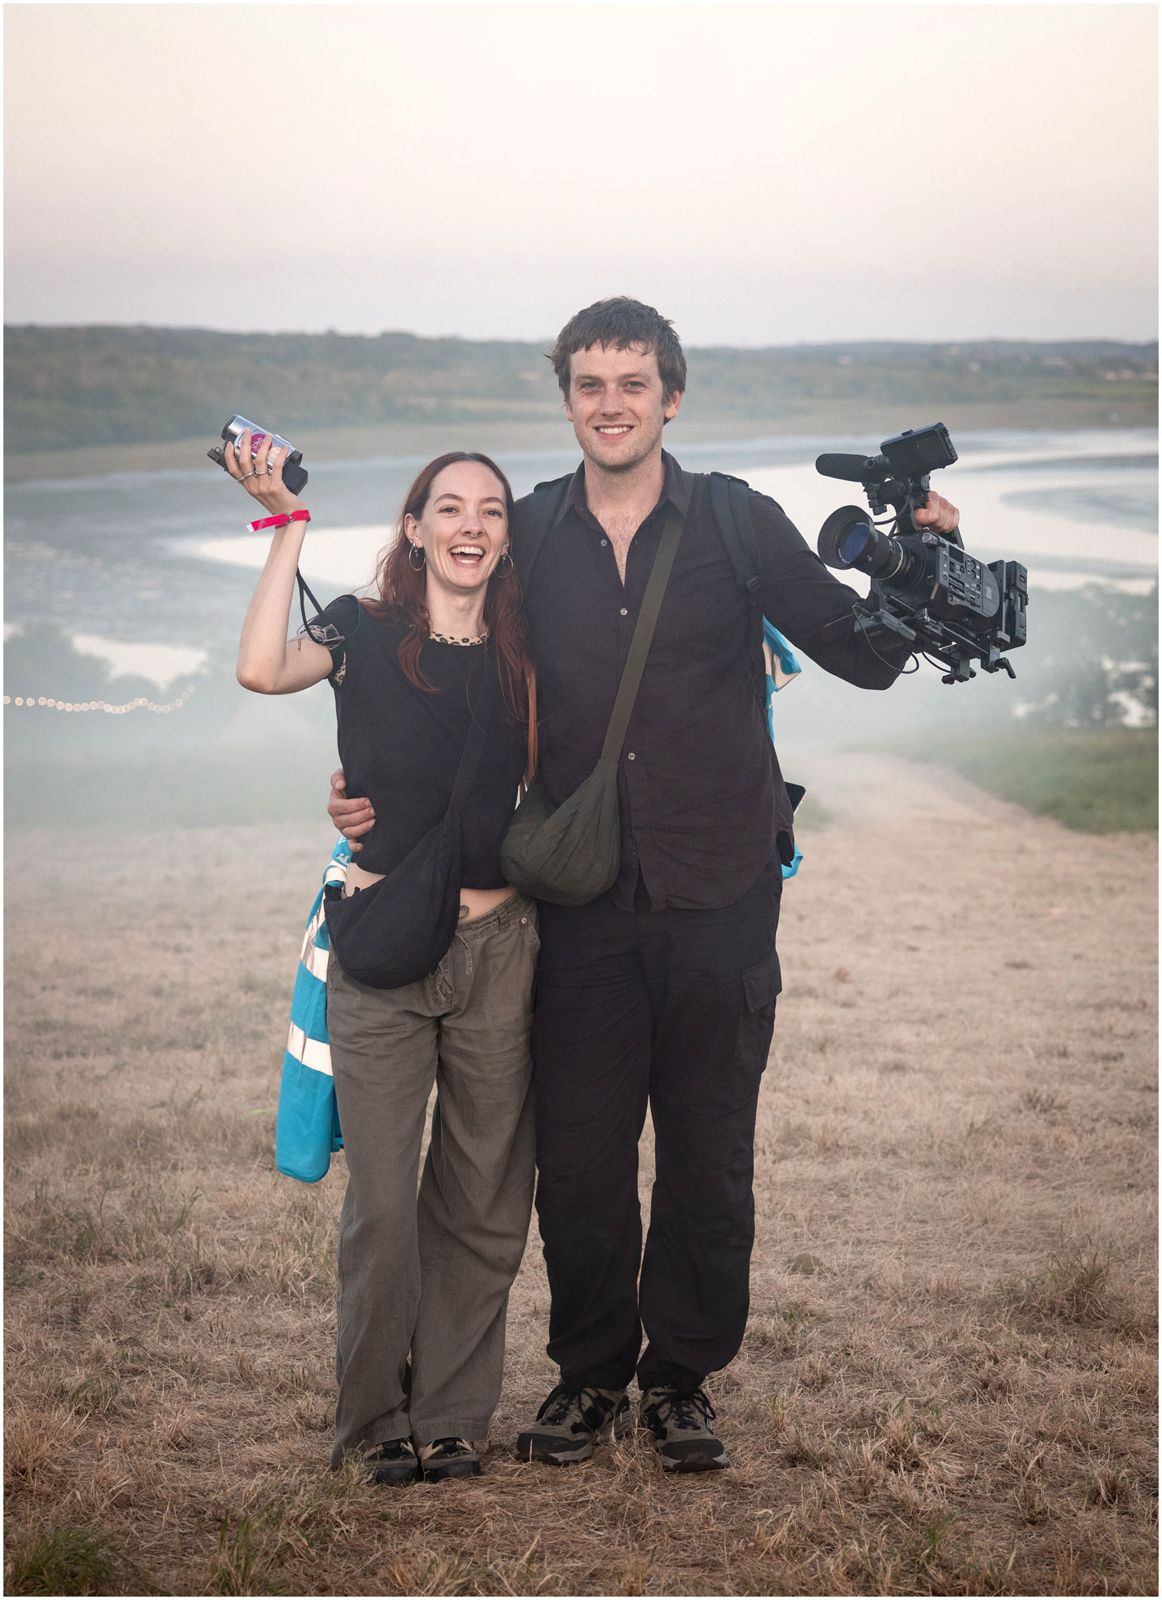
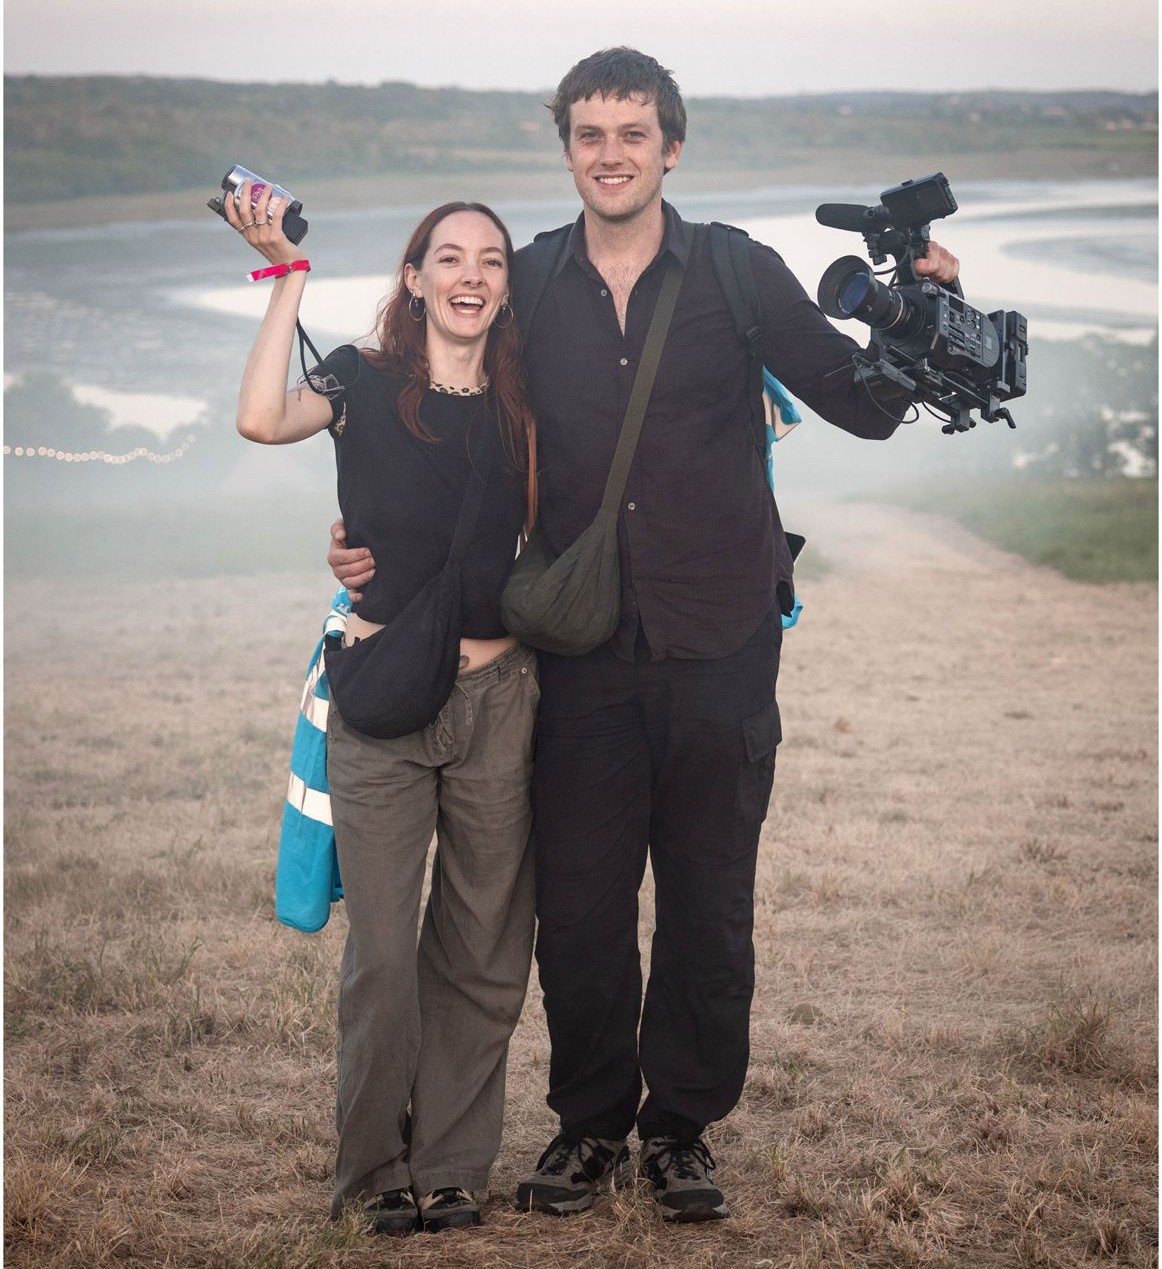
Update Idris Films videos and thumbnails

diff --git a/idrisfilms_site/static/idrisfilms_site/css/partials/outputs.css b/idrisfilms_site/static/idrisfilms_site/css/partials/outputs.css
@@ -33,6 +33,7 @@
   box-shadow: none;
 }
 
+/* Thumbnail area */
 .media-tile{
   position: relative;
   min-height: 170px;
@@ -40,47 +41,72 @@
   place-items: center;
   overflow: hidden;
   border-radius: 0;
-  background: var(--green);
+  background: #000000;
 }
 
-.media-tile--wide{
-  background: var(--blue);
+.media-tile img{
+  position: absolute;
+  inset: 0;
+  width: 100%;
+  height: 100%;
+  display: block;
+  object-fit: cover;
+  object-position: center;
+  transition: transform 180ms ease;
 }
 
-.media-tile--phone{
-  background: var(--rust);
+.output-card:hover .media-tile img{
+  transform: scale(1.035);
 }
 
-.media-tile--cinema{
-  background: #0f1117;
-}
-
+/* Dark overlay */
 .media-tile::before{
   content: "";
   position: absolute;
-  inset: 18px;
-  border: 2px solid #ffffff;
-  opacity: .8;
+  inset: 0;
+  z-index: 1;
+  border: 0;
+  background: rgba(0,0,0,.2);
+  opacity: 1;
+  pointer-events: none;
 }
 
-.media-tile--phone::before{
+/* Inner frame */
+.media-tile::after{
+  content: "";
+  position: absolute;
+  inset: 18px;
+  z-index: 2;
+  border: 2px solid rgba(255,255,255,.85);
+  opacity: 1;
+  pointer-events: none;
+}
+
+/* Vertical/social thumbnail */
+.media-tile--phone img{
+  object-fit: contain;
+  background: #000000;
+}
+
+.media-tile--phone::after{
   left: 35%;
   right: 35%;
-  border-radius: 14px;
+  border-radius: 0;
 }
 
 .play{
   position: relative;
-  z-index: 1;
+  z-index: 3;
   display: grid;
   place-items: center;
   width: 72px;
   height: 72px;
-  border: 3px solid #ffffff;
+  border: 3px solid rgba(255,255,255,.92);
   border-radius: 50%;
   color: #ffffff;
   font-size: 30px;
   padding-left: 4px;
+  background: rgba(0,0,0,.22);
 }
 
 .output-card__body{
@@ -94,6 +120,7 @@
   position: absolute;
   top: -29px;
   left: 16px;
+  z-index: 4;
   display: grid;
   place-items: center;
   width: 52px;
@@ -151,5 +178,11 @@
 
   .media-tile{
     min-height: 150px;
+  }
+
+  .play{
+    width: 62px;
+    height: 62px;
+    font-size: 26px;
   }
 }

diff --git a/idrisfilms_site/templates/idrisfilms_site/partials/outputs.html b/idrisfilms_site/templates/idrisfilms_site/partials/outputs.html
@@ -20,9 +20,14 @@
         type="button"
         data-modal-open
         data-video-title="Website films"
-        data-video-url="https://www.youtube.com/embed/OZNnIKc1VR8"
+        data-video-url="https://www.youtube.com/embed/0Nrc2LELa_s"
       >
         <div class="media-tile media-tile--wide">
+          <img
+            src="{{ STATIC_PREFIX }}idrisfilms_site/img/tufidyfi.jpg"
+            alt=""
+            aria-hidden="true"
+          >
           <span class="play">▶</span>
         </div>
 
@@ -42,9 +47,14 @@
         type="button"
         data-modal-open
         data-video-title="Social media content"
-        data-video-url="https://www.youtube.com/embed/pNNfuHeDCdQ"
+        data-video-url="https://www.youtube.com/embed/h0OMyafxB1Y"
       >
         <div class="media-tile media-tile--phone">
+          <img
+            src="{{ STATIC_PREFIX }}idrisfilms_site/img/bigretreat.jpg"
+            alt=""
+            aria-hidden="true"
+          >
           <span class="play">▶</span>
         </div>
 
@@ -64,9 +74,14 @@
         type="button"
         data-modal-open
         data-video-title="Cinema adverts"
-        data-video-url="https://www.youtube.com/embed/g4LV-LVr6zs"
+        data-video-url="https://www.youtube.com/embed/Z23r_i-4UKM"
       >
         <div class="media-tile media-tile--cinema">
+          <img
+            src="{{ STATIC_PREFIX }}idrisfilms_site/img/makadhim.jpg"
+            alt=""
+            aria-hidden="true"
+          >
           <span class="play">▶</span>
         </div>
 

diff --git a/idrisfilms_site/static/idrisfilms_site/js/main.js b/idrisfilms_site/static/idrisfilms_site/js/main.js
@@ -131,7 +131,7 @@
     const enableYouTubeJsApi = (iframe) => {
       try {
         const src = iframe.getAttribute("src");
-        if (!src || !src.includes("youtube.com/embed/")) return;
+        if (!src || (!src.includes("youtube.com/embed/") && !src.includes("youtube-nocookie.com/embed/"))) return;
 
         const url = new URL(src, window.location.origin);
 
@@ -148,7 +148,7 @@
       const src = iframe.getAttribute("src") || "";
 
       try {
-        if (src.includes("youtube.com/embed/")) {
+        if (src.includes("youtube.com/embed/") || src.includes("youtube-nocookie.com/embed/")) {
           iframe.contentWindow?.postMessage(
             JSON.stringify({
               event: "command",
@@ -237,7 +237,6 @@
 
     // ------------------------------------------------------------
     // Video modal
-    // Safe to keep even if most videos are now embedded directly.
     // ------------------------------------------------------------
     const modal = document.querySelector("[data-video-modal]");
     const modalIframe = document.querySelector("[data-modal-iframe]");
@@ -252,10 +251,12 @@
         try {
           const url = new URL(videoUrl, window.location.origin);
 
-          if (url.hostname.includes("youtube.com")) {
+          if (url.hostname.includes("youtube.com") || url.hostname.includes("youtube-nocookie.com")) {
             url.searchParams.set("autoplay", "1");
-            url.searchParams.set("enablejsapi", "1");
             url.searchParams.set("rel", "0");
+            url.searchParams.set("modestbranding", "1");
+            url.searchParams.set("playsinline", "1");
+            url.searchParams.set("enablejsapi", "1");
           }
 
           if (url.hostname.includes("vimeo.com")) {
@@ -265,8 +266,8 @@
           return url.toString();
         } catch (err) {
           return videoUrl.includes("?")
-            ? `${videoUrl}&autoplay=1`
-            : `${videoUrl}?autoplay=1`;
+            ? `${videoUrl}&autoplay=1&rel=0&modestbranding=1&playsinline=1&enablejsapi=1`
+            : `${videoUrl}?autoplay=1&rel=0&modestbranding=1&playsinline=1&enablejsapi=1`;
         }
       };
 

diff --git a/idrisfilms_site/templates/idrisfilms_site/partials/testimonials.html b/idrisfilms_site/templates/idrisfilms_site/partials/testimonials.html
@@ -8,23 +8,23 @@
       <div class="testimonial-track" data-testimonial-track>
         <article class="testimonial-slide" data-testimonial-slide>
           <blockquote>
-            “Idris Films captured the heart of our project perfectly. The films were beautiful, useful and easy to share.”
+            The whole process was straightforward and enjoyable, and the final film has had a much longer lifespan than we ever expected. You were able to capture both the science and the people behind the project, which was really important to us. I'd happily recommend Idris Films to any organisation looking to tell their story in a genuine and engaging way.”
           </blockquote>
-          <p class="testimonial-name">Project lead, charity</p>
+          <p class="testimonial-name">Rhianna Parry - The Wild Oysters Project</p>
         </article>
 
         <article class="testimonial-slide" data-testimonial-slide>
           <blockquote>
-            “Professional, creative and a pleasure to work with. The content helped us reach more people and explain what we do.”
+            Working with Idris Films was brilliant. We wanted to capture our volunteers and local community taking part in monitoring our oyster nurseries in Conwy Marina, and the filming felt really natural from start to finish. Communication was easy throughout, and they took the time to understand what we were trying to achieve. Fieldwork days can be quite busy and unpredictable, but they slotted in really well and captured some great footage and interviews without disrupting what we were doing.”
           </blockquote>
-          <p class="testimonial-name">Marketing manager, tourism</p>
+          <p class="testimonial-name">Rhianna Parry - The Wild Oysters Project</p>
         </article>
 
         <article class="testimonial-slide" data-testimonial-slide>
           <blockquote>
-            “The whole process felt easy, thoughtful and collaborative from start to finish.”
+            Definitely. The film was made around two years ago and we're still using it today, which probably says it all! It helped us showcase a really unique part of the project that can be quite difficult to explain through reports or presentations alone. We've used the film at local, national, and international conferences, as well as engagement events, to show people what oyster nursery monitoring actually looks like, how volunteers are involved, and the impact the project has had on those involved. It always gets people's attention and has been a great way to introduce new audiences to the project.”
           </blockquote>
-          <p class="testimonial-name">Community project organiser</p>
+          <p class="testimonial-name">Rhianna Parry - The Wild Oysters Project</p>
         </article>
       </div>
     </div>

diff --git a/idrisfilms_site/templates/idrisfilms_site/partials/video_modal.html b/idrisfilms_site/templates/idrisfilms_site/partials/video_modal.html
@@ -13,7 +13,8 @@
         src=""
         title=""
         frameborder="0"
-        allow="autoplay; fullscreen; picture-in-picture"
+        allow="accelerometer; autoplay; clipboard-write; encrypted-media; gyroscope; picture-in-picture; web-share; fullscreen"
+        referrerpolicy="strict-origin-when-cross-origin"
         allowfullscreen>
       </iframe>
     </div>

diff --git a/idrisfilms_site/templates/idrisfilms_site/partials/hero.html b/idrisfilms_site/templates/idrisfilms_site/partials/hero.html
@@ -15,7 +15,7 @@
   <section class="intro-video" aria-label="What we do">
     <div class="intro-video__embed">
       <iframe
-        src="https://www.youtube.com/embed/g4LV-LVr6zs?si=uPdwlj7GCBwX31cp"
+        src="https://www.youtube.com/embed/GU2u_CaenJs"
         title="Idris Films showreel"
         frameborder="0"
         allow="accelerometer; autoplay; clipboard-write; encrypted-media; gyroscope; picture-in-picture; web-share"